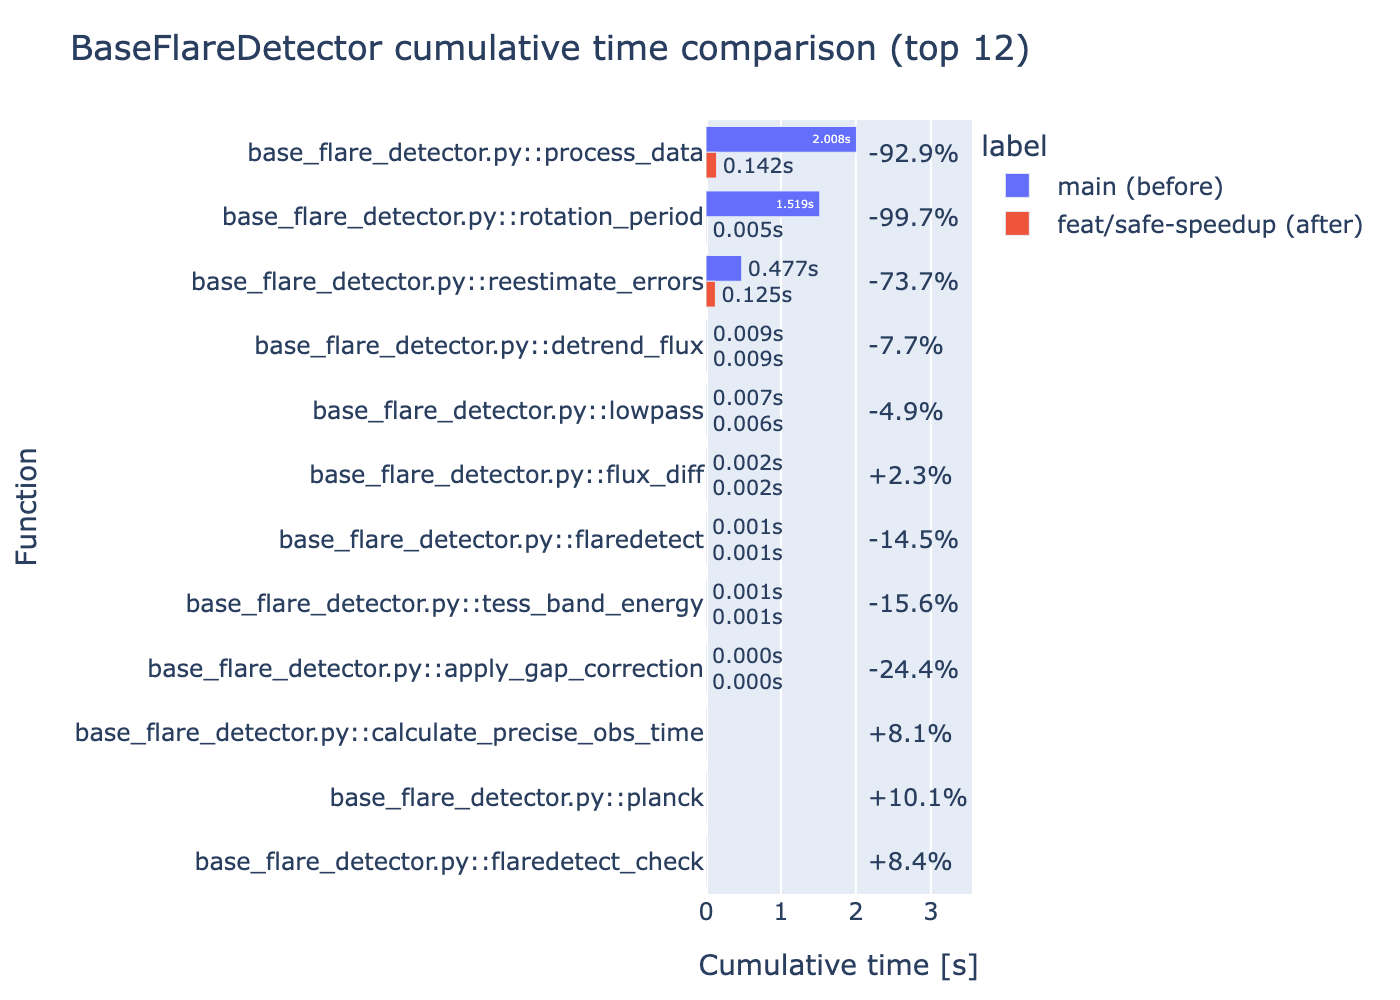
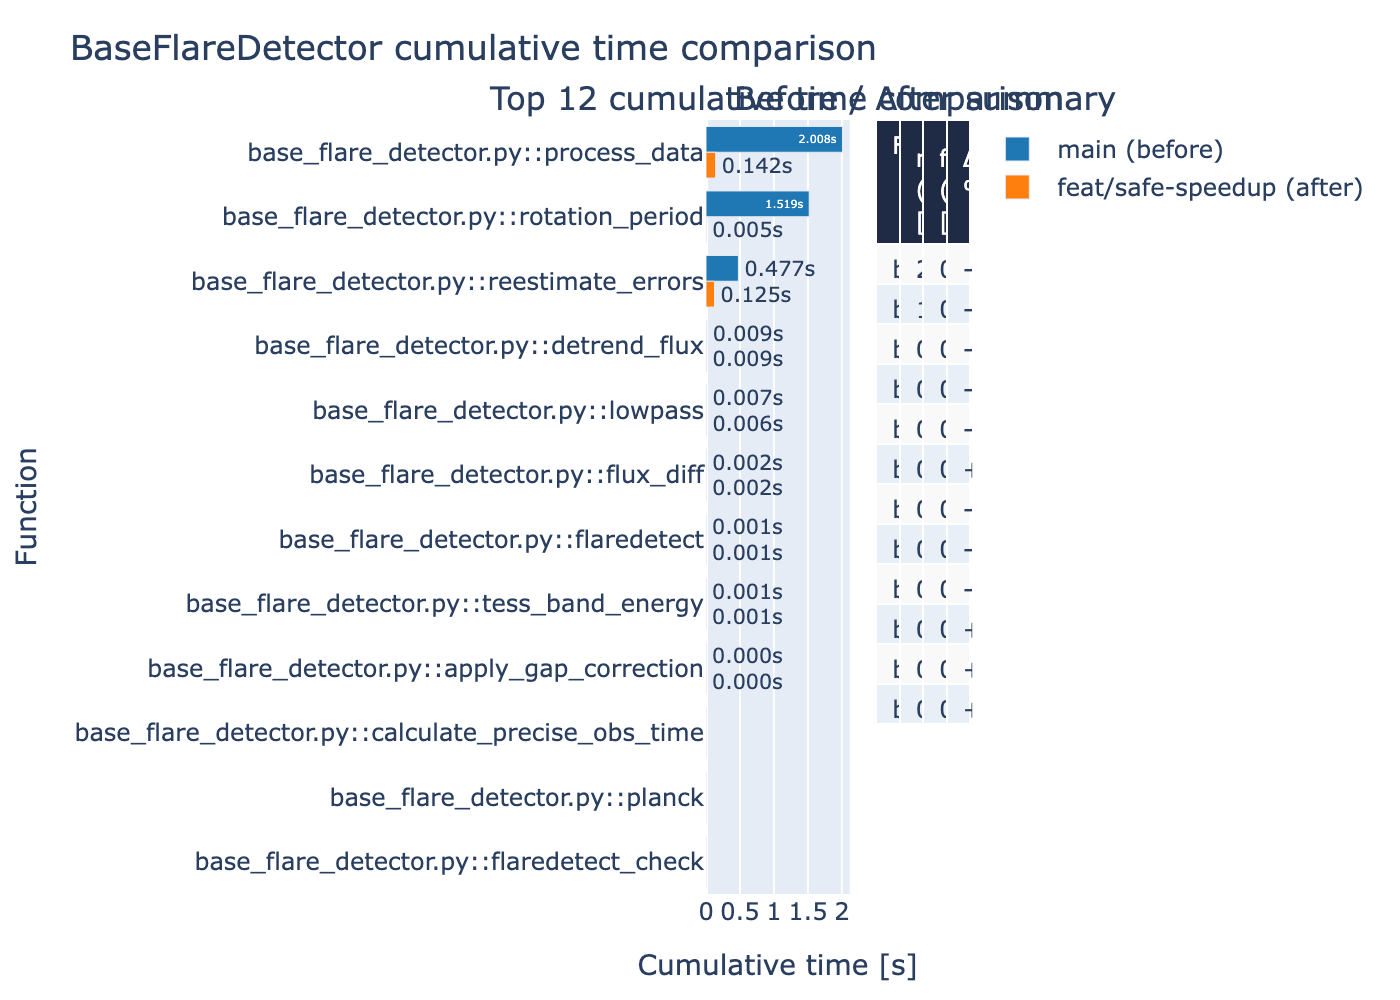
chore: Plotlyブラウザ表示時のHTML出力を抑制

diff --git a/scripts/compare_profile_results.py b/scripts/compare_profile_results.py
@@ -9,7 +9,9 @@ from typing import Optional
 
 import numpy as np
 import pandas as pd
-import plotly.express as px
+import plotly.graph_objects as go
+import plotly.io as pio
+from plotly.subplots import make_subplots
 
 
 def canonical_function_label(func: str) -> str:
@@ -68,56 +70,72 @@ def plot_comparison(
     top = df.head(top_n).copy()
     before_col = f"{label_before}_cumtime"
     after_col = f"{label_after}_cumtime"
+    labels = list(top["function_key"])
+    percent_fmt = top["percent_change"].apply(lambda v: f"{v:+.1f}%" if not np.isnan(v) else "N/A").tolist()
 
-    melted = top.melt(
-        id_vars=["function_key", "percent_change"],
-        value_vars=[before_col, after_col],
-        var_name="label",
-        value_name="cumtime",
-    )
-    melted["label"] = melted["label"].replace(
-        {
-            before_col: label_before,
-            after_col: label_after,
-        }
+    fig = make_subplots(
+        rows=1,
+        cols=2,
+        subplot_titles=(f"Top {top_n} cumulative time comparison", "Before / After summary"),
+        specs=[[{"type": "xy"}, {"type": "domain"}]],
+        column_widths=[0.6, 0.4],
     )
 
-    fig = px.bar(
-        melted,
-        x="cumtime",
-        y="function_key",
-        color="label",
-        orientation="h",
-        labels={"cumtime": "Cumulative time [s]", "function_key": "Function"},
-        barmode="group",
-        text=melted["cumtime"].map(lambda v: f"{v:.3f}s"),
+    fig.add_trace(
+        go.Bar(
+            y=labels,
+            x=top[before_col],
+            orientation="h",
+            name=label_before,
+            marker_color="#1f77b4",
+            text=top[before_col].map(lambda v: f"{v:.3f}s"),
+            textposition="auto",
+        ),
+        row=1,
+        col=1,
     )
+    fig.add_trace(
+        go.Bar(
+            y=labels,
+            x=top[after_col],
+            orientation="h",
+            name=label_after,
+            marker_color="#ff7f0e",
+            text=top[after_col].map(lambda v: f"{v:.3f}s"),
+            textposition="auto",
+        ),
+        row=1,
+        col=1,
+    )
+
+    table = go.Table(
+        header=dict(
+            values=["Function", f"{label_before} [s]", f"{label_after} [s]", "Δ %"],
+            fill_color="#1f2a44",
+            font=dict(color="white"),
+            align="left",
+        ),
+        cells=dict(
+            values=[labels, top[before_col].round(6), top[after_col].round(6), percent_fmt],
+            fill_color=[["#f9f9f9", "#e8eff7"] * (len(labels) // 2 + 1)],
+            align="left",
+        ),
+    )
+    fig.add_trace(table, row=1, col=2)
+
     fig.update_layout(
-        height=max(500, 80 * len(top)),
-        yaxis=dict(autorange="reversed"),
-        title=f"BaseFlareDetector cumulative time comparison (top {top_n})",
-        margin=dict(l=200, r=120, t=60, b=40),
+        barmode="group",
+        height=max(600, 30 * len(labels)),
+        yaxis=dict(autorange="reversed", title="Function"),
+        xaxis=dict(title="Cumulative time [s]"),
+        margin=dict(l=200, r=20, t=60, b=40),
+        title="BaseFlareDetector cumulative time comparison",
     )
-
-    max_val = float(melted["cumtime"].max() or 1.0)
-    for _, row in top.iterrows():
-        pct = row["percent_change"]
-        if np.isnan(pct):
-            continue
-        fig.add_annotation(
-            x=max_val * 1.05,
-            y=row["function_key"],
-            text=f"{pct:+.1f}%",
-            showarrow=False,
-            font=dict(size=12),
-            xanchor="left",
-            yanchor="middle",
-        )
 
     output_png.parent.mkdir(parents=True, exist_ok=True)
     fig.write_image(output_png, scale=2)
     if show_plot:
-        fig.show()
+        pio.show(fig, renderer="browser")
 
 
 def parse_args() -> argparse.Namespace:

diff --git a/scripts/verify_detector_state.py b/scripts/verify_detector_state.py
@@ -13,6 +13,7 @@ from typing import Any, Callable, Dict, List
 import numpy as np
 import pandas as pd
 import plotly.express as px
+import plotly.io as pio
 
 PROJECT_ROOT = Path(__file__).resolve().parents[1]
 DEFAULT_BASELINE = PROJECT_ROOT / "docs" / "regression" / "base_flare_detector_state.json"
@@ -174,7 +175,7 @@ def plot_summary(rows: List[Dict[str, Any]], output_path: Path, show_plot: bool 
     output_path.parent.mkdir(parents=True, exist_ok=True)
     fig.write_image(output_path, scale=2)
     if show_plot:
-        fig.show()
+        pio.show(fig, renderer="browser")
 
 
 def plot_detailed(rows: List[Dict[str, Any]], output_path: Path, show_plot: bool = False) -> None:
@@ -207,7 +208,7 @@ def plot_detailed(rows: List[Dict[str, Any]], output_path: Path, show_plot: bool
     output_path.parent.mkdir(parents=True, exist_ok=True)
     fig.write_image(output_path, scale=2)
     if show_plot:
-        fig.show()
+        pio.show(fig, renderer="browser")
 
 
 def capture_state(args: argparse.Namespace) -> Dict[str, Any]:

diff --git a/scripts/profile_base_flare_detector.py b/scripts/profile_base_flare_detector.py
@@ -16,6 +16,7 @@ from typing import Sequence
 
 import pandas as pd
 import plotly.express as px
+import plotly.io as pio
 
 PROJECT_ROOT = Path(__file__).resolve().parents[1]
 if str(PROJECT_ROOT) not in sys.path:
@@ -144,7 +145,7 @@ def save_outputs(df: pd.DataFrame, args: argparse.Namespace) -> tuple[Path, Path
     )
     fig.write_image(fig_path, scale=2)
     if args.show_plot:
-        fig.show()
+        pio.show(fig, renderer="browser")
     return csv_path, fig_path
 
 
